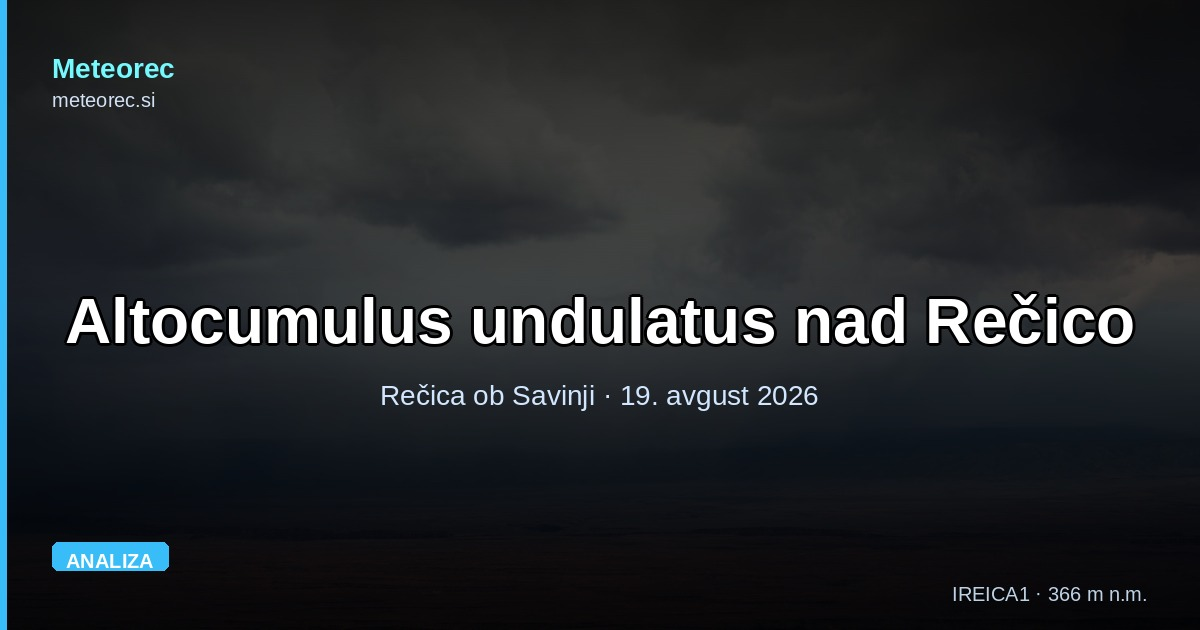
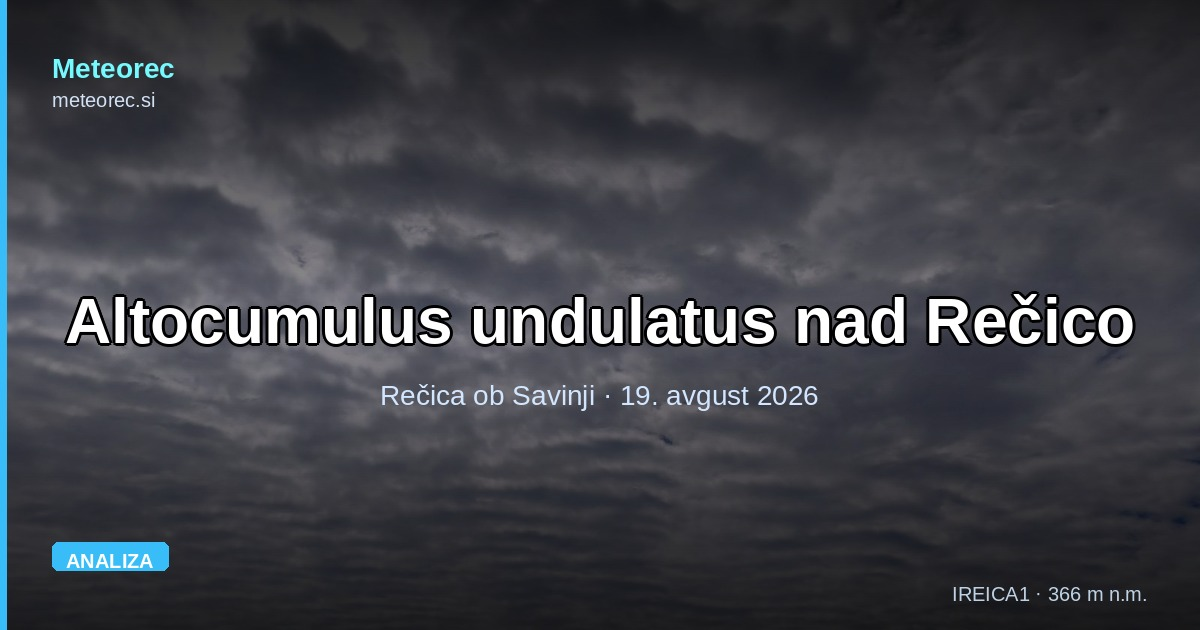
blog: dodaj Filipovi fotografiji altokumulusov v članek 19. 8. (#744)
Obe sta z 18. 8. ob 12.18 (EXIF DateTimeOriginal 12.17.43 in 12.17.48,
odmik +02.00), torej sredi okna sklenjene plasti (11.00-13.50), ko je
piranometer kazal 406 W/m² -- to je zdaj tudi zapisano v besedilu.

- foto-1: nebo z valovi in režami modrega neba proti obzorju (perlucidus),
  v razdelku o fotografiji;
- foto-2: širši pogled z vasjo, sonce skozi plast kot svetel krog, v
  razdelku o piranometru.

Obe pomanjšani na 1600 px in shranjeni brez EXIF (izvirnika sta imela
zapisane GPS koordinate). URL-ja verzionirana z asset_href().

Vrnjeni so naslov razdelka »Kaj je na fotografiji« in sklici na sliko, ki
so bili ob objavi brez fotografije začasno umaknjeni. OG slika je
pregenerirana iz foto-1 (pot prek DRIVE_PHOTO_PATH, kot v daily-post.yml).

Claude-Session: https://claude.ai/code/session_013LJwjsi67jWHJKMZPqGtbi

diff --git a/blog/altocumulus-undulatus-nad-recico-valovi-pred-fronto-0819.html b/blog/altocumulus-undulatus-nad-recico-valovi-pred-fronto-0819.html
@@ -139,18 +139,14 @@
       <div class="ak-card"><div class="ak-lab">Kar je prišlo za tem</div><div class="ak-val">0,5 mm</div><div class="ak-sub">ploha med 19.00 in 19.20</div></div>
     </div>
 
-    <h2 id="foto">Kaj je bilo na nebu</h2>
+    <h2 id="foto">Kaj je na fotografiji</h2>
 
-    <!-- FOTOGRAFIJA: ko je datoteka v img/blog/altocumulus-undulatus-nad-recico-valovi-pred-fronto-0819/foto-1.jpg
-         (1600 px, brez EXIF), odkomentiraj spodnji blok, naslov razdelka vrni v »Kaj je na fotografiji«
-         in prvi stavek pod njim v »Oblak na sliki je …«.
     <figure class="post-photo">
-      <img src="/img/blog/altocumulus-undulatus-nad-recico-valovi-pred-fronto-0819/foto-1.jpg" alt="Vzporedni valovi srednje visokih oblakov nad Zgornjo Savinjsko dolino, proti obzorju z režami modrega neba." width="1600" height="1200" loading="lazy">
-      <figcaption>Valoviti altokumulusi nad Rečico ob Savinji, 18. avgusta 2026. Foto: Filip Eremita.</figcaption>
+      <img src="/img/blog/altocumulus-undulatus-nad-recico-valovi-pred-fronto-0819/foto-1.jpg?v=ffc35ad1" alt="Nebo, prekrito z vzporednimi valovi srednje visokih oblakov; nad grebenom hribov se med valovi vidijo reže modrega neba." width="1600" height="1200" loading="lazy">
+      <figcaption>Valoviti altokumulusi nad Rečico ob Savinji, 18. avgusta 2026 ob 12.18. Proti obzorju se med valovi vidijo reže modrega neba – podvrsta perlucidus. Foto: Filip Eremita.</figcaption>
     </figure>
-    -->
 
-    <p>Oblak nad dolino je bil <strong>Altocumulus undulatus</strong>, po naše valoviti altokumulus. Ime pove tri stvari:</p>
+    <p>Oblak na fotografiji je <strong>Altocumulus undulatus</strong>, po naše valoviti altokumulus. Ime pove tri stvari:</p>
 
     <ul>
       <li><strong>Rod Altocumulus</strong> – srednje visoki grudasti oblaki, ki nastajajo med dvema in šestimi kilometri.</li>
@@ -226,7 +222,7 @@
 
     <p>Ključ je <a href="/slovar/strizenje-vetra/">striženje vetra</a>: sprememba njegove hitrosti ali smeri z višino. Ob 12. uri je veter pod plastjo pihal z 255 stopinj z 11 km/h, v spodnjem delu plasti z 283 stopinj s 36 km/h, v zgornjem z 298 stopinj s 50 km/h in nad njo s 316 stopinj z 48 km/h.</p>
 
-    <p>Znotraj same plasti to pomeni razliko <span class="mono">18 km/h</span> na 1 229 metrov debeline, med 1,5 in 5,8 kilometra pa razliko <span class="mono">44 km/h</span>. Zgornji del plasti torej drsi po spodnjem. Na stiku se robna ploskev nagrbanči v valove – enako, kot veter nagrbanči gladino jezera, le da sta tu obe „tekočini“ zrak. Kjer je val v grebenu, se zrak dvigne, ohladi in vodna para kondenzira v oblak; kjer je val v dolini, se zrak spusti, segreje in oblak izgine. Rezultat je vzorec vzporednih prog, ki ga vidimo s tal – in reže modrega neba med njimi.</p>
+    <p>Znotraj same plasti to pomeni razliko <span class="mono">18 km/h</span> na 1 229 metrov debeline, med 1,5 in 5,8 kilometra pa razliko <span class="mono">44 km/h</span>. Zgornji del plasti torej drsi po spodnjem. Na stiku se robna ploskev nagrbanči v valove – enako, kot veter nagrbanči gladino jezera, le da sta tu obe „tekočini“ zrak. Kjer je val v grebenu, se zrak dvigne, ohladi in vodna para kondenzira v oblak; kjer je val v dolini, se zrak spusti, segreje in oblak izgine. Rezultat je vzorec vzporednih prog, ki ga vidimo s tal – in reže modrega neba med njimi, tiste s fotografije.</p>
 
     <p>Zagrebška sondaža je za striženje med tlemi in šestimi kilometri istega dne ob 12. uri UTC dala 16,1 m/s, torej 58 km/h, navpični temperaturni gradient med 850 in 500 hPa pa 5,1 °C na kilometer. Striženja je bilo torej dovolj za valove na plasteh, nestabilnosti pa premalo za nevihte – zato je ostalo pri lepem nebu.</p>
 
@@ -300,7 +296,14 @@
 
     <p>Nato se zgodi nekaj drugačnega. <strong>Med 11.00 in 13.50</strong> se sevanje umiri v ozek pas med <span class="mono">245</span> in <span class="mono">406 W/m²</span>, s povprečjem 321 W/m². Ni več skokov, je pa enakomerno manj svetlobe – tako je videti sklenjena plast srednje visokih oblakov, ki sonce zastre, a ga ne ugasne. Za primerjavo: 16. avgusta je bilo v istem časovnem oknu povprečje <span class="mono">637 W/m²</span>.</p>
 
-    <p>Med 14.00 in 14.45 pa se odpre. Skozi vrzeli med valovi sevanje štirikrat skoči čez 840 W/m², z največjo vrednostjo <span class="mono">903 W/m²</span> ob 14.05. To je 26 odstotkov več od dnevnega vrha 16. avgusta (718 W/m²), ko je bilo nebo večinoma jasno. Sonce avgusta samo od sebe toliko ne da; presežek pride od svetlobe, ki se odbije od osvetljenih robov oblakov okoli reže. Prav ti robovi so z tal vidni kot svetli grebeni valov.</p>
+    <figure class="post-photo">
+      <img src="/img/blog/altocumulus-undulatus-nad-recico-valovi-pred-fronto-0819/foto-2.jpg?v=a0635670" alt="Vas pod sklenjeno plastjo valovitih oblakov; sonce se skozi plast vidi kot svetel krog." width="1600" height="1200" loading="lazy">
+      <figcaption>Širši pogled istega trenutka, 18. avgusta 2026 ob 12.18: sonce se skozi plast vidi kot svetel krog, piranometer je takrat kazal 406 W/m². Foto: Filip Eremita.</figcaption>
+    </figure>
+
+    <p>Obe fotografiji sta nastali <strong>ob 12.18</strong>, torej sredi tega okna – kar je tudi razlog, da se meritev in slika ujameta: to, kar je na sliki videti kot tanka, a sklenjena preproga, je v zapisu ravna črta pri približno polovici vrednosti jasnega dne.</p>
+
+    <p>Med 14.00 in 14.45 pa se odpre. Skozi vrzeli med valovi sevanje štirikrat skoči čez 840 W/m², z največjo vrednostjo <span class="mono">903 W/m²</span> ob 14.05. To je 26 odstotkov več od dnevnega vrha 16. avgusta (718 W/m²), ko je bilo nebo večinoma jasno. Sonce avgusta samo od sebe toliko ne da; presežek pride od svetlobe, ki se odbije od osvetljenih robov oblakov okoli reže. Prav ti robovi so na fotografiji vidni kot svetli grebeni valov.</p>
 
     <p>Čez cel dan je sevanje naneslo <span class="mono">3,57 kWh/m²</span>, 16. avgusta pa 4,90 kWh/m² – plast je vzela dobro četrtino dnevne energije.</p>
 
@@ -424,7 +427,7 @@
       <a href="/tocnost-napovedi/" style="display:inline-block;background:linear-gradient(135deg,#4d9ff8,#22d3ee);color:#04070e;font-weight:700;text-decoration:none;padding:.75rem 1.6rem;border-radius:10px;font-family:'Space Grotesk',sans-serif">Poglej semafor točnosti napovedi →</a>
     </p>
 
-    <p style="color:var(--muted);font-size:.9rem;margin-top:2rem">Viri: temperatura, zračni tlak, sončno sevanje, jakost dežja in sunki vetra so meritve postaje IREICA1 (Rečica ob Savinji, 366 m n. m., petminutni zapis); dnevne vrednosti za 18. avgust so zajete ob 23.15. Vlaga in veter po tlačnih ravneh sta izračun Open-Meteo za točko postaje, ne meritev. Podatki radiosondaže so z izpusta Zagreb/Maksimir ob 12. uri UTC (University of Wyoming). Napovedi so tiste, zabeležene na semaforju točnosti 17. in 18. avgusta 2026, napoved ARSO velja za Ljubno ob Savinji.</p>
+    <p style="color:var(--muted);font-size:.9rem;margin-top:2rem">Viri: temperatura, zračni tlak, sončno sevanje, jakost dežja in sunki vetra so meritve postaje IREICA1 (Rečica ob Savinji, 366 m n. m., petminutni zapis); dnevne vrednosti za 18. avgust so zajete ob 23.15. Vlaga in veter po tlačnih ravneh sta izračun Open-Meteo za točko postaje, ne meritev. Podatki radiosondaže so z izpusta Zagreb/Maksimir ob 12. uri UTC (University of Wyoming). Napovedi so tiste, zabeležene na semaforju točnosti 17. in 18. avgusta 2026, napoved ARSO velja za Ljubno ob Savinji. Fotografiji: Filip Eremita, 18. avgusta 2026 ob 12.18.</p>
     <!-- teme:start – samodejno, wire_all(); ne urejaj ročno -->
     <!-- teme:end -->
     <!-- teme:start — samodejno, wire_all(); ne urejaj ročno -->
